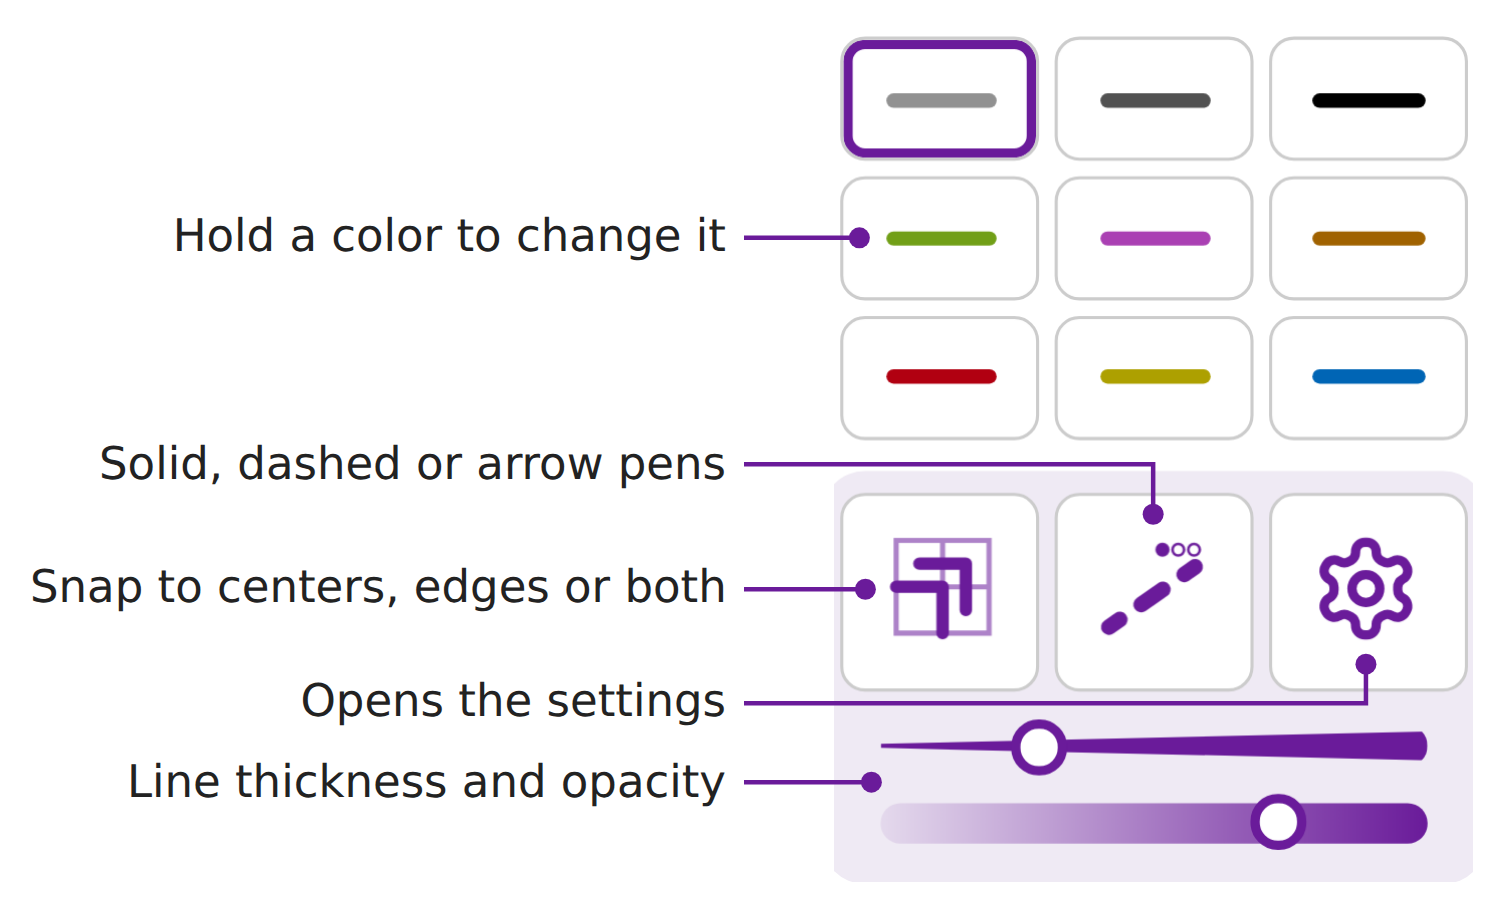
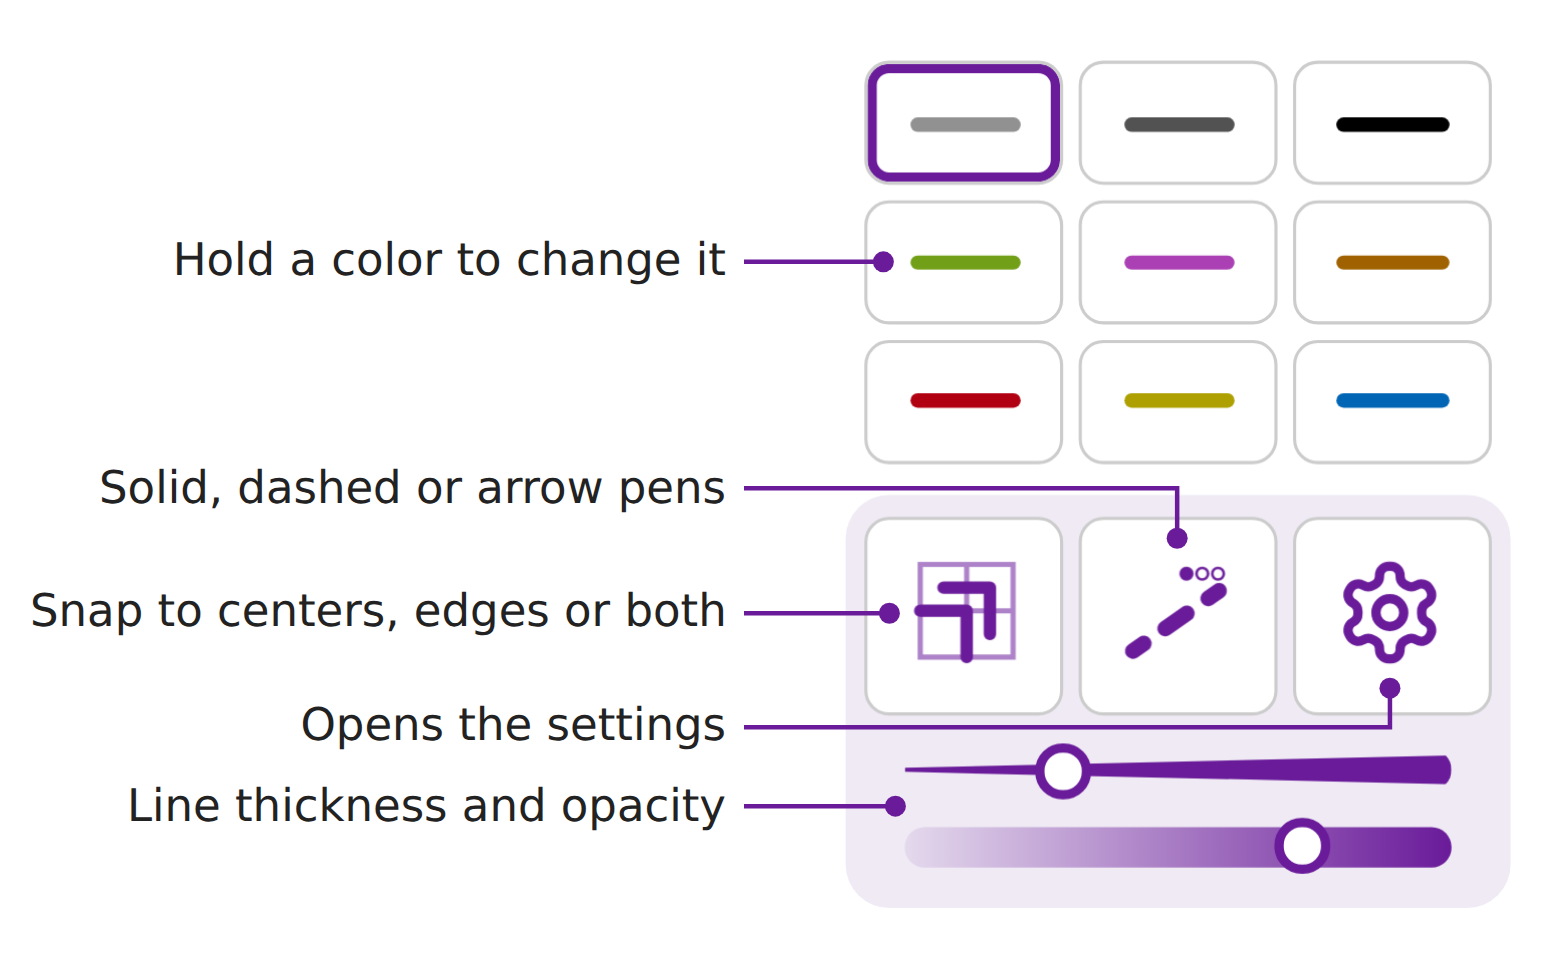
Pen Tool Extras dialog keeps its height, Clear says an empty log was already empty, annotated panel picture retaken with a margin
Closes #960

Changed region(s): [[0.0, 0.0307, 0.9794, 0.9518], [0.0612, 0.8289, 0.5815, 0.8904]]

diff --git a/pen-tool-extras.user.js b/pen-tool-extras.user.js
@@ -1,7 +1,7 @@
 // ==UserScript==
 // @name         SudokuPad Pen Tool Extras
 // @namespace    https://github.com/caneff/sudokupad-scripts
-// @version      1.32.27
+// @version      1.32.28
 // @author       ChinStrap
 // @description  Adds to SudokuPad's pen tool: customizable pen colors, dashed and arrow lines, and marks on cell edges and grid corners. Turn the pen tool on in SudokuPad's settings first.
 // @homepageURL  https://caneff.github.io/sudokupad-scripts/pen-tool-extras.html
@@ -22,7 +22,7 @@
 
   // 1. Core: the settings table, the install steps, the style writer and shared constants
   // The script cannot read its own header (GM_info is absent without Tampermonkey), so @version is repeated here.
-  const VERSION = '1.32.27'
+  const VERSION = '1.32.28'
   const STYLE_ID = 'pen-tool-extras-style'
   const GRID_SELECTOR = '#svgrenderer'
   const PEN_LAYER = '#cell-pen'
@@ -643,8 +643,9 @@
       event.stopPropagation()
       try {
         if (act === 'clear-error-log') {
+          const wasEmpty = readErrorLog(win.localStorage).length === 0
           win.localStorage.removeItem(ERROR_LOG_KEY)
-          say('Error log cleared.')
+          say(wasEmpty ? 'The error log was already empty.' : 'Error log cleared.')
           return
         }
         const log = readErrorLog(win.localStorage)
@@ -3019,7 +3020,7 @@
 
   // Scoped by the editor's id, so SudokuPad's other dialogs are left alone; `:has` reaches the dialog and its buttons from the editor, so they are styled from the first frame.
   const OPTIONS = `.dialog:has(${EDITOR}) .dialog-options`
-  const hiddenRowCss = (name) => `${EDITOR}:not(:has(input[data-box="${SETTINGS[name].dialog.under}"]:checked)) [data-row="${name}"] { display: none; }`
+  const hiddenRowCss = (name) => `${EDITOR}:not(:has(input[data-box="${SETTINGS[name].dialog.under}"]:checked)) [data-row="${name}"] { visibility: hidden; }`
   const DIALOG_CSS = [
     // Sized to its content and centred in the window; the paragraph around the editor loses SudokuPad's bottom margin so the vertical line meets the footer's line.
     `.dialog:has(${EDITOR}) { width: fit-content !important; max-width: 96vw !important; }`,

diff --git a/test/pen-tool-extras.test.js b/test/pen-tool-extras.test.js
@@ -1131,8 +1131,8 @@ test('an unticked line style is drawn unticked and the stylesheet hides its slid
   const html = renderEditor(editorState({ dash: 6, lineStyles: { dashed: false, arrows: true } }))
   assert.doesNotMatch(html, /data-box="lineStyles.dashed"[^>]* checked/)
   assert.match(rowOf(html, 'dash'), /value="6"/)
-  assert.match(DIALOG_CSS, /#pen-tool-extras-editor:not\(:has\(input\[data-box="lineStyles\.dashed"\]:checked\)\) \[data-row="dash"\] \{ display: none; \}/)
-  assert.match(DIALOG_CSS, /#pen-tool-extras-editor:not\(:has\(input\[data-box="lineStyles\.arrows"\]:checked\)\) \[data-row="arrowSpacing"\] \{ display: none; \}/)
+  assert.match(DIALOG_CSS, /#pen-tool-extras-editor:not\(:has\(input\[data-box="lineStyles\.dashed"\]:checked\)\) \[data-row="dash"\] \{ visibility: hidden; \}/)
+  assert.match(DIALOG_CSS, /#pen-tool-extras-editor:not\(:has\(input\[data-box="lineStyles\.arrows"\]:checked\)\) \[data-row="arrowSpacing"\] \{ visibility: hidden; \}/)
 })
 
 test('Marks to cycle is one 3 by 4 table: headings X, circle, an up arrow head and a down arrow head, dot; rows Edge (X, circle, directions), Corner (X and circle) and Cell (cross, circle, dot)', () => {
@@ -1189,7 +1189,7 @@ test('Other: the White outlines box has its own line with Outline width under it
   assert.match(rowOf(html, 'outlineWidth'), /class="pen-tool-extras-label pen-tool-extras-under"/)
   assert.match(DIALOG_CSS, /\.pen-tool-extras-label\.pen-tool-extras-under \{ padding-left: 1\.2em;/, 'the indent')
   assert.match(rowOf(html, 'outlineWidth'), /<label for="pen-tool-extras-setting-outlineWidth"[^>]*>Outline width<\/label>/)
-  assert.match(DIALOG_CSS, /#pen-tool-extras-editor:not\(:has\(input\[data-box="outline"\]:checked\)\) \[data-row="outlineWidth"\] \{ display: none; \}/)
+  assert.match(DIALOG_CSS, /#pen-tool-extras-editor:not\(:has\(input\[data-box="outline"\]:checked\)\) \[data-row="outlineWidth"\] \{ visibility: hidden; \}/)
   const off = renderEditor(editorState({ outline: false, outlineWidth: 5 }))
   assert.doesNotMatch(off, /data-box="outline" checked/)
   assert.match(rowOf(off, 'outlineWidth'), /value="5"/)

diff --git a/auto-rules-resizer.user.js b/auto-rules-resizer.user.js
@@ -1,7 +1,7 @@
 // ==UserScript==
 // @name         SudokuPad Auto Rules Resizer
 // @namespace    https://github.com/caneff/sudokupad-scripts
-// @version      0.7.18
+// @version      0.7.19
 // @author       ChinStrap
 // @description  Fits SudokuPad's rules to the screen in landscape: the rules pane takes all the height the page has to spare, with the controls beside it kept at SudokuPad's size, widens only when the rules would still scroll, and only then shrinks the text, to 70% of SudokuPad's size at the least. Spare room grows the text to 150% at most. f+ and f- on the pane change the font a pixel at a time, and two drag corners resize the pane. A puzzle you resized keeps its sizing; others start at the default. An Auto Rules Resizer entry in SudokuPad's settings caps the automatic width and height.
 // @match        https://sudokupad.app/*
@@ -18,7 +18,7 @@
   'use strict'
 
   // GM_info is absent without Tampermonkey, so the script cannot read @version; keep this equal to it.
-  const VERSION = '0.7.18'
+  const VERSION = '0.7.19'
   const MAX_WIDTH_KEY = 'AutoRulesResizer_maxWidth'
   const MAX_HEIGHT_KEY = 'AutoRulesResizer_maxHeight'
   const EDGE_PX = 8 // the gap the pane keeps to the window's right edge
@@ -639,8 +639,9 @@
       event.stopPropagation()
       try {
         if (act === 'clear-error-log') {
+          const wasEmpty = readErrorLog(win.localStorage).length === 0
           win.localStorage.removeItem(ERROR_LOG_KEY)
-          say('Error log cleared.')
+          say(wasEmpty ? 'The error log was already empty.' : 'Error log cleared.')
           return
         }
         const log = readErrorLog(win.localStorage)

diff --git a/color-by-digit.user.js b/color-by-digit.user.js
@@ -1,7 +1,7 @@
 // ==UserScript==
 // @name         SudokuPad Color by Digit
 // @namespace    https://github.com/caneff/sudokupad-scripts
-// @version      0.25.56
+// @version      0.25.57
 // @author       ChinStrap
 // @description  Colors cells, or the digits and marks in them, by digit, with colors you give to groups of digits, and keeps the colors in step as you solve.
 // @match        https://sudokupad.app/*
@@ -18,7 +18,7 @@
   'use strict'
 
   // GM_info is absent without Tampermonkey, so the script cannot read @version; keep this equal to it.
-  const VERSION = '0.25.56'
+  const VERSION = '0.25.57'
   // The groups saved before profiles existed. Read when no profiles are saved; never written or removed.
   const LEGACY_GROUPS_KEY = 'ColorByDigit_groups'
   // The profiles: { profiles: [{ name, groups }], active: index, digitActive?: index, useDigitColors?: false }.
@@ -1831,8 +1831,9 @@
       event.stopPropagation()
       try {
         if (act === 'clear-error-log') {
+          const wasEmpty = readErrorLog(win.localStorage).length === 0
           win.localStorage.removeItem(ERROR_LOG_KEY)
-          say('Error log cleared.')
+          say(wasEmpty ? 'The error log was already empty.' : 'Error log cleared.')
           return
         }
         const log = readErrorLog(win.localStorage)

diff --git a/dark-page.user.js b/dark-page.user.js
@@ -1,7 +1,7 @@
 // ==UserScript==
 // @name         SudokuPad Dark Page
 // @namespace    https://github.com/caneff/sudokupad-scripts
-// @version      0.7.28
+// @version      0.7.29
 // @author       ChinStrap
 // @description  Makes the page black around the puzzle, or another color chosen in a settings dialog, with dark control buttons on a dark page. Puzzle colors stay as intended, unlike SudokuPad's dark mode.
 // @match        https://sudokupad.app/*
@@ -18,7 +18,7 @@
   'use strict'
 
   // GM_info is absent without Tampermonkey, so the script cannot read @version; keep this equal to it.
-  const VERSION = '0.7.28'
+  const VERSION = '0.7.29'
   const STYLE_ID = 'dark-page-style'
   const BOARD_ID = 'svgrenderer'
   // The page color and every other rule apply only while a board is on the page; a page with none keeps its own colors.
@@ -432,8 +432,9 @@
       event.stopPropagation()
       try {
         if (act === 'clear-error-log') {
+          const wasEmpty = readErrorLog(win.localStorage).length === 0
           win.localStorage.removeItem(ERROR_LOG_KEY)
-          say('Error log cleared.')
+          say(wasEmpty ? 'The error log was already empty.' : 'Error log cleared.')
           return
         }
         const log = readErrorLog(win.localStorage)

diff --git a/ui-tweaks.user.js b/ui-tweaks.user.js
@@ -1,7 +1,7 @@
 // ==UserScript==
 // @name         SudokuPad UI Tweaks
 // @namespace    https://github.com/caneff/sudokupad-scripts
-// @version      0.1.25
+// @version      0.1.26
 // @author       ChinStrap
 // @description  Small changes to SudokuPad's buttons, each switched on or off in a settings dialog: Tab never switches the number pad to letters, hide the Select button, and wrap the bottom row of buttons after five.
 // @match        https://sudokupad.app/*
@@ -21,7 +21,7 @@
   'use strict'
 
   // GM_info is absent without Tampermonkey, so the script cannot read @version; keep this equal to it.
-  const VERSION = '0.1.25'
+  const VERSION = '0.1.26'
   const STYLE_ID = 'ui-tweaks-style'
   // Each option's saved boolean is kept under its own key, which is also its name in Copy settings.
   const OPTIONS = [
@@ -309,8 +309,9 @@
       event.stopPropagation()
       try {
         if (act === 'clear-error-log') {
+          const wasEmpty = readErrorLog(win.localStorage).length === 0
           win.localStorage.removeItem(ERROR_LOG_KEY)
-          say('Error log cleared.')
+          say(wasEmpty ? 'The error log was already empty.' : 'Error log cleared.')
           return
         }
         const log = readErrorLog(win.localStorage)

diff --git a/site/pen-tool-extras.html b/site/pen-tool-extras.html
@@ -78,7 +78,7 @@
 
   <h2>The pen panel</h2>
   <p class="prose">Pick SudokuPad's pen tool and its panel opens beside the puzzle. It holds every control.</p>
-  <div class="figure"><img src="https://raw.githubusercontent.com/caneff/sudokupad-scripts/main/docs/research/pen-tool-extras/pen-tool-extras-panel-annotated.png?v=c7f1e4f" alt="The pen panel with each part labelled on its left. Pen color buttons: hold a color to change it. Line type button: solid, dashed or arrow pens. Line mode button: snap to centers, edges or both. Settings button: opens the settings. Thickness and Opacity sliders: line thickness and opacity." width="501" height="304"></div>
+  <div class="figure"><img src="https://raw.githubusercontent.com/caneff/sudokupad-scripts/main/docs/research/pen-tool-extras/pen-tool-extras-panel-annotated.png?v=37c4d9b" alt="The pen panel with each part labelled on its left. Pen color buttons: hold a color to change it. Line type button: solid, dashed or arrow pens. Line mode button: snap to centers, edges or both. Settings button: opens the settings. Thickness and Opacity sliders: line thickness and opacity." width="517" height="320"></div>
 
   <h2>Good to know</h2>
   <ul class="notes">

diff --git a/text-anywhere.user.js b/text-anywhere.user.js
@@ -1,7 +1,7 @@
 // ==UserScript==
 // @name         SudokuPad Text Anywhere
 // @namespace    https://github.com/caneff/sudokupad-scripts
-// @version      0.46.27
+// @version      0.46.28
 // @author       ChinStrap
 // @description  Adds a Text Anywhere tool for typed notes on the board or beside it, such as cage sums, in colors of its own. Each puzzle keeps its own notes.
 // @match        https://sudokupad.app/*
@@ -17,7 +17,7 @@
 (function () {
   'use strict'
 
-  const VERSION = '0.46.27'
+  const VERSION = '0.46.28'
   const TOOL_NAME = 'textanywhere'
   const LAYER_ID = 'text-anywhere-layer'
   const DIALOG_BLUR_PX = 8
@@ -1535,8 +1535,9 @@
       event.stopPropagation()
       try {
         if (act === 'clear-error-log') {
+          const wasEmpty = readErrorLog(win.localStorage).length === 0
           win.localStorage.removeItem(ERROR_LOG_KEY)
-          say('Error log cleared.')
+          say(wasEmpty ? 'The error log was already empty.' : 'Error log cleared.')
           return
         }
         const log = readErrorLog(win.localStorage)

diff --git a/lib/settings-dialog.js b/lib/settings-dialog.js
@@ -146,8 +146,9 @@ function wireErrorLog (dialog, win) {
     event.stopPropagation()
     try {
       if (act === 'clear-error-log') {
+        const wasEmpty = readErrorLog(win.localStorage).length === 0
         win.localStorage.removeItem(ERROR_LOG_KEY)
-        say('Error log cleared.')
+        say(wasEmpty ? 'The error log was already empty.' : 'Error log cleared.')
         return
       }
       const log = readErrorLog(win.localStorage)
